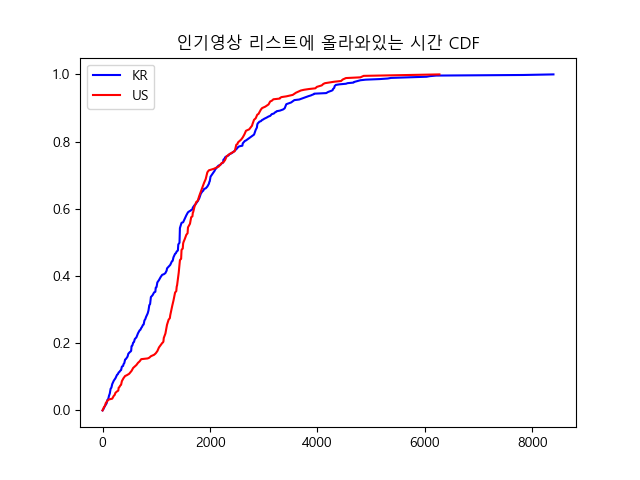
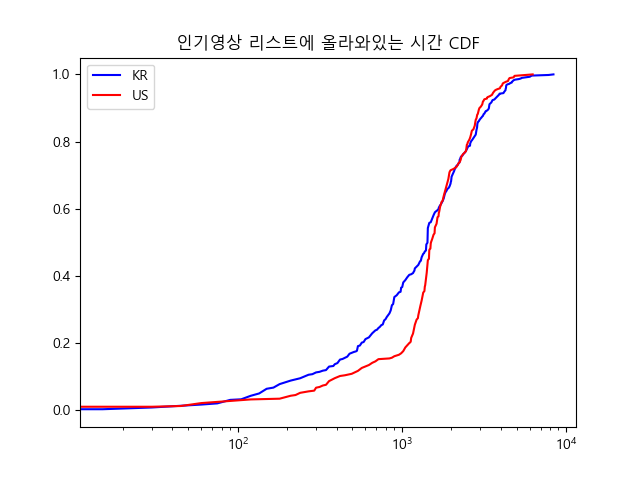
fix

diff --git a/4.py b/4.py
@@ -20,8 +20,36 @@ for video in videoList:
     for i in range(0, len(rawRanks) - 1):
         deltaRank += rawRanks[i+1][0] - rawRanks[i][0]
         deltaAbsRank += abs(rawRanks[i+1][0] - rawRanks[i][0])
-    x.append(deltaRank)
-    y.append(deltaAbsRank)
+    if deltaAbsRank < 150:
+        x.append(deltaRank)
+        y.append(deltaAbsRank)
 
 plothandler = plotHandler()
-plothandler.drawScatter(x, y, 'rank', 'abs(rank)', 'blue', '각 비디오에 대해서 abs(rank 변화), rank(변화) scatter', '4result.png')
+plothandler.drawScatter(x, y, 'rank', 'abs(rank)', 'blue', '각 비디오에 대해서 abs(rank) 변화, rank(변화) scatter(KR)', '4krresult.png')
+
+config = {
+    "host": "localhost",
+    "user": "root",
+    "password": "ckddud950!",
+    "db": "youtube_popular2",
+}
+dbhandler = DBHandler(config)
+
+videoList = dbhandler.getMeaningVideos()
+timeIds = dbhandler.getShortTermTimeIds()
+x = []
+y = []
+for video in videoList:
+    sql = 'select rank from popular where videoId = "' + video + '" and timeId in' + str(timeIds).replace('[','(').replace(']',')')
+    rawRanks = dbhandler.fetchall(sql)
+    deltaRank = 0
+    deltaAbsRank = 0
+    for i in range(0, len(rawRanks) - 1):
+        deltaRank += rawRanks[i+1][0] - rawRanks[i][0]
+        deltaAbsRank += abs(rawRanks[i+1][0] - rawRanks[i][0])
+    if deltaAbsRank < 150:
+        x.append(deltaRank)
+        y.append(deltaAbsRank)
+
+plothandler = plotHandler()
+plothandler.drawScatter(x, y, 'rank', 'abs(rank)', 'red', '각 비디오에 대해서 abs(rank) 변화, rank(변화) scatter(US)', '4usresult.png')

diff --git a/8.py b/8.py
@@ -9,7 +9,7 @@ config = {
 }
 dbhandler = DBHandler(config)
 categorieskr = ['뉴스/정치', '엔터테인먼트', '코미디', '인물/블로그', '스포츠']
-color = ['red', 'orange', 'yellow', 'green', 'blue']
+color = ['salmon', 'darkorange', 'khaki', 'springgreen', 'blueviolet']
 
 timeOnPopularListList = []
 for category in categorieskr:
@@ -34,6 +34,7 @@ for category in categorieskr:
 
 plothandler = plotHandler()
 plothandler.drawCDF(timeOnPopularListList, color, categorieskr, '카테고리 별 인기영상에 올라와 있는 시간 CDF(KR)', '8krresult.png')
+plothandler.drawLogCDF(timeOnPopularListList, color, categorieskr, '카테고리 별 인기영상에 올라와 있는 시간 CDF(KR)(Log)', '8krresultlog.png')
 
 
 config = {
@@ -44,7 +45,7 @@ config = {
 }
 dbhandler = DBHandler(config)
 categoriesus = ['엔터테인먼트', '스포츠', '코미디', '음악', '인물/블로그']
-color = ['red', 'orange', 'yellow', 'green', 'blue']
+color = ['darkorange', 'blueviolet', 'khaki', 'steelblue', 'springgreen']
 
 timeOnPopularListList = []
 for category in categoriesus:
@@ -69,3 +70,4 @@ for category in categoriesus:
 
 plothandler = plotHandler()
 plothandler.drawCDF(timeOnPopularListList, color, categoriesus, '카테고리 별 인기영상에 올라와 있는 시간 CDF(US)', '8usresult.png')
+plothandler.drawLogCDF(timeOnPopularListList, color, categoriesus, '카테고리 별 인기영상에 올라와 있는 시간 CDF(US)(Log)', '8usresultlog.png')

diff --git a/handler.py b/handler.py
@@ -106,6 +106,29 @@ class plotHandler:
         plt.title(title)
         plt.savefig(name)
         plt.clf()
+
+    def drawLogCDF(self, lis, colors, labels, title, name):
+        for i in range(0, len(lis)):
+            x = [0]
+            y = [0]
+            temp = lis[i][0]
+            count = 0
+            for data in lis[i]:
+                if data == temp:
+                    count += 1
+                else:
+                    x.append(temp)
+                    y.append(count / len(lis[i]))
+                    temp = data
+                    count += 1
+            x.append(temp)
+            y.append(count / len(lis[i]))
+            plt.plot(x, y, color=colors[i], label=labels[i])
+        plt.legend()
+        plt.xscale('log')
+        plt.title(title)
+        plt.savefig(name)
+        plt.clf()
     
     def drawBox(self, li, x, title, name):
         plt.title(title)
@@ -140,6 +163,6 @@ class plotHandler:
         plt.title(title)
         plt.xlabel(xlabel)
         plt.ylabel(ylabel)
-        plt.scatter(x, y, color=color)
+        plt.scatter(x, y, color=color, s=5)
         plt.savefig(name)
         plt.clf()

diff --git a/1.py b/1.py
@@ -36,7 +36,7 @@ plothandler = plotHandler()
 plothandler.drawPie(
     [numCategoryList[0][0], numCategoryList[1][0], numCategoryList[2][0], numCategoryList[3][0], numCategoryList[4][0], numCategoryList[5][0]],
     [numCategoryList[0][1], numCategoryList[1][1], numCategoryList[2][1], numCategoryList[3][1], numCategoryList[4][1], numCategoryList[5][1]],
-    ['blue', 'red', 'orange', 'yellow', 'purple', 'green'],
+    ['salmon', 'darkorange', 'khaki', 'springgreen', 'blueviolet', 'cyan'],
     '주요 카테고리 별 비율',
     '1krresult.png'
 )
@@ -77,7 +77,7 @@ plothandler = plotHandler()
 plothandler.drawPie(
     [numCategoryList[0][0], numCategoryList[1][0], numCategoryList[2][0], numCategoryList[3][0], numCategoryList[4][0], numCategoryList[5][0]],
     [numCategoryList[0][1], numCategoryList[1][1], numCategoryList[2][1], numCategoryList[3][1], numCategoryList[4][1], numCategoryList[5][1]],
-    ['blue', 'red', 'orange', 'yellow', 'purple', 'green'],
+    ['salmon', 'blueviolet', 'khaki', 'steelblue', 'springgreen', 'cyan'],
     '주요 카테고리 별 비율',
     '1usresult.png'
 )

diff --git a/6.py b/6.py
@@ -18,7 +18,7 @@ dbhandler = DBHandler(config)
 timeIds = dbhandler.getTimeIds()
 
 category = ['뉴스/정치', '엔터테인먼트', '코미디', '인물/블로그', '스포츠']
-col = ['red', 'orange', 'yellow', 'green', 'blue']
+col = ['salmon', 'darkorange', 'khaki', 'springgreen', 'blueviolet']
 
 jaccardsList = []
 for ii in range(0, len(category)):
@@ -56,7 +56,7 @@ dbhandler = DBHandler(config)
 timeIds = dbhandler.getTimeIds()
 
 category = ['엔터테인먼트', '스포츠', '코미디', '음악', '인물/블로그']
-col = ['red', 'orange', 'yellow', 'green', 'blue']
+col = ['darkorange', 'blueviolet', 'khaki', 'steelblue', 'springgreen']
 
 jaccardsList = []
 for ii in range(0, len(category)):

diff --git a/9.py b/9.py
@@ -9,7 +9,7 @@ config = {
 }
 dbhandler = DBHandler(config)
 categorieskr = ['뉴스/정치', '엔터테인먼트', '코미디', '인물/블로그', '스포츠']
-color = ['red', 'orange', 'yellow', 'green', 'blue']
+color = ['salmon', 'darkorange', 'khaki', 'springgreen', 'blueviolet']
 
 
 likesHatesPerViewsListList = []
@@ -39,7 +39,7 @@ config = {
 }
 dbhandler = DBHandler(config)
 categoriesus = ['엔터테인먼트', '스포츠', '코미디', '음악', '인물/블로그']
-color = ['red', 'orange', 'yellow', 'green', 'blue']
+color = ['darkorange', 'blueviolet', 'khaki', 'steelblue', 'springgreen']
 
 
 likesHatesPerViewsListList = []

diff --git a/10.py b/10.py
@@ -9,7 +9,7 @@ config = {
 }
 dbhandler = DBHandler(config)
 categorieskr = ['뉴스/정치', '엔터테인먼트', '코미디', '인물/블로그', '스포츠']
-color = ['red', 'orange', 'yellow', 'green', 'blue']
+color = ['salmon', 'darkorange', 'khaki', 'springgreen', 'blueviolet']
 
 
 likesPerHatesList = []
@@ -39,7 +39,7 @@ config = {
 }
 dbhandler = DBHandler(config)
 categoriesus = ['엔터테인먼트', '스포츠', '코미디', '음악', '인물/블로그']
-color = ['red', 'orange', 'yellow', 'green', 'blue']
+color = ['darkorange', 'blueviolet', 'khaki', 'steelblue', 'springgreen']
 
 
 likesPerHatesList = []

diff --git a/3.py b/3.py
@@ -57,4 +57,4 @@ for video in videoList:
 timeOnPopularList2 = sorted(timeOnPopularList2)
 
 plothandler = plotHandler()
-plothandler.drawCDF([timeOnPopularList, timeOnPopularList2], ['blue', 'red'], ['KR', 'US'], '인기영상 리스트에 올라와있는 시간 CDF', '3result.png')
+plothandler.drawLogCDF([timeOnPopularList, timeOnPopularList2], ['blue', 'red'], ['KR', 'US'], '인기영상 리스트에 올라와있는 시간 CDF', '3result.png')

diff --git a/5-4.py b/5-4.py
@@ -38,4 +38,4 @@ for video in videoList:
 views2 = sorted(views2)
 
 plothandler = plotHandler()
-plothandler.drawCDF([views, views2], ['blue', 'red'], ['KR', 'US'], '처음 인기영상에 rank되었을 때 조회수 CDF', '5-4result.png')
+plothandler.drawLogCDF([views, views2], ['blue', 'red'], ['KR', 'US'], '처음 인기영상에 rank되었을 때 조회수 CDF', '5-4result.png')
